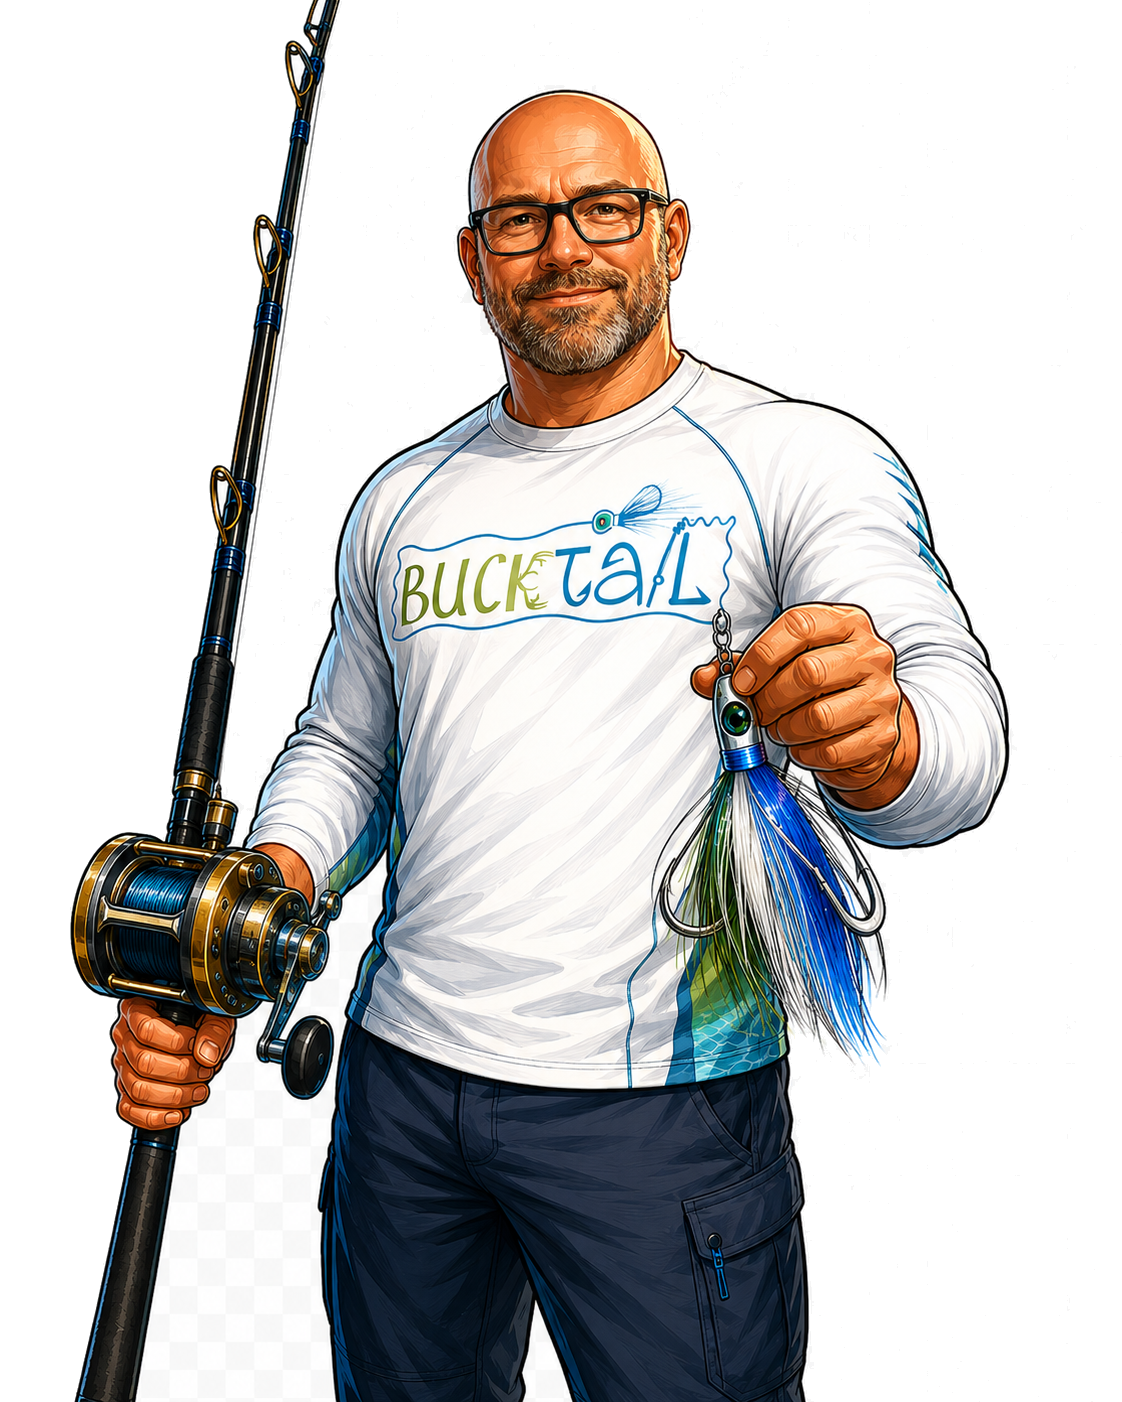
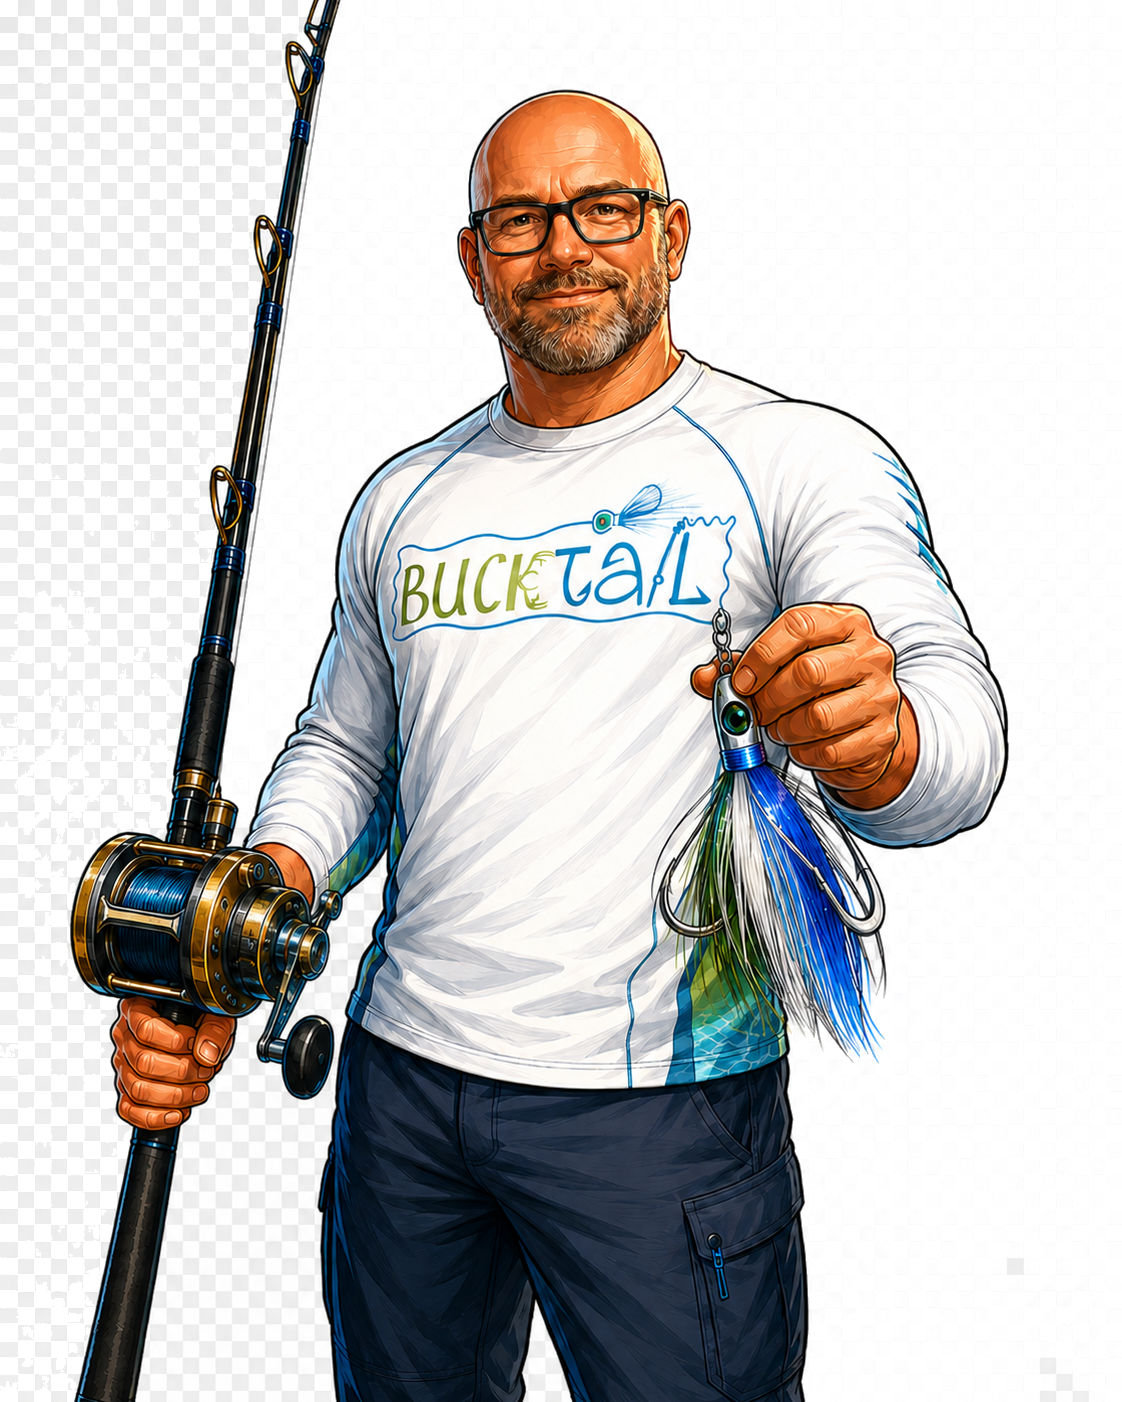
Use the new transparent deep-sea Don (background stripped + cache-bust)
The uploaded Mascot_Don_deepsea_transparent.png had a checkerboard
pattern baked into the pixels (alternating 254 white and 233 gray
squares) — the file was saved as flat RGB, not true RGBA. Stripped
it via 4-corner flood fill with threshold 40 to catch both square
colors. Result is real alpha transparency with the white BUCKTAIL
shirt preserved.

Added ?v=2 query string on the img src to force browsers to fetch
the new asset and not serve the cached white-background version.

diff --git a/index.html b/index.html
@@ -689,7 +689,7 @@ footer{background:#070906;border-top:1px solid var(--line);position:relative;z-i
 
 <!-- ===== MASCOT GUIDE ===== -->
 <div class="guide" id="guide">
-  <div class="av"><img src="assets/images/bucktail-mascot-deepsea.png" alt="Don" /></div>
+  <div class="av"><img src="assets/images/bucktail-mascot-deepsea.png?v=2" alt="Don" /></div>
   <div class="bubble">
     <span class="who">Don</span>
     <span id="guide-msg">Welcome to Bucktail &mdash; the home of the wild. Take a look around.</span>
